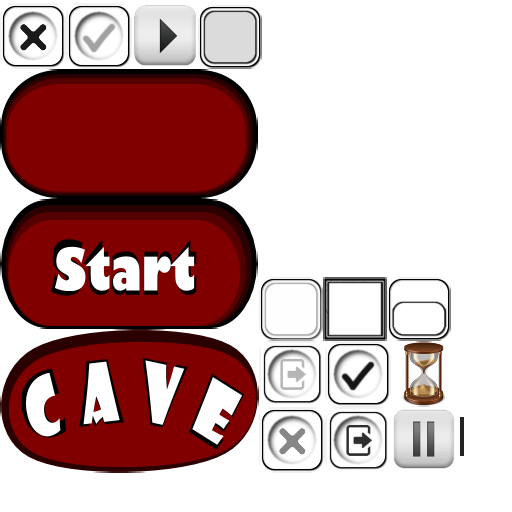
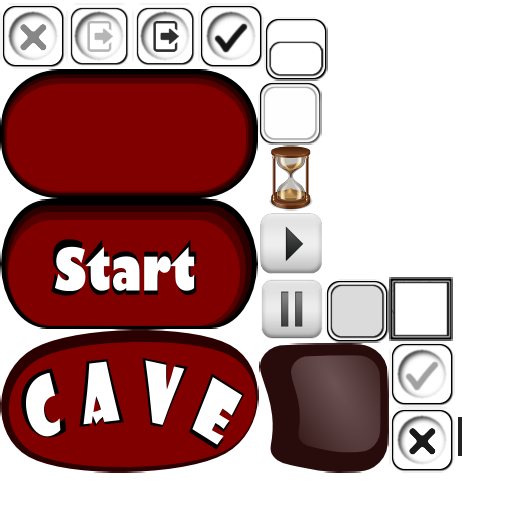
Art update

Changed region(s): [[0.125, 0.0, 0.9062, 0.9375], [0.0312, 0.0312, 0.0938, 0.0938]]

diff --git a/core/src/com/mpv/screens/stages/LevelStage.java b/core/src/com/mpv/screens/stages/LevelStage.java
@@ -20,7 +20,7 @@ public class LevelStage extends Stage {
 		//mainTable.debug();
 		//buttonTable.debug();
 		this.addActor(mainTable);
-		mainTable.setBackground(Assets.skin.getDrawable("window"));
+		mainTable.setBackground(Assets.skin.getDrawable("none"));
 		mainTable.setFillParent(true);
 		mainTable.add(new Image(Assets.skin, "caption-levels")).size(this.getWidth()/1.6f, this.getHeight()/6.4f).row();
 		mainTable.add(emptyWidget).height(buttonSize).row();
@@ -29,7 +29,7 @@ public class LevelStage extends Stage {
 		for (int i=0; i<4; i++) {
 			for (int j=0; j<4; j++) {
 				buttonTable.add(emptyWidget).width(buttonSize/4);
-				buttonTable.add(new Image(Assets.skin, "button")).size(buttonSize);
+				buttonTable.add(new Image(Assets.skin, "item")).size(buttonSize);
 				buttonTable.add(emptyWidget).width(buttonSize/4);
 			}
 			buttonTable.row();
